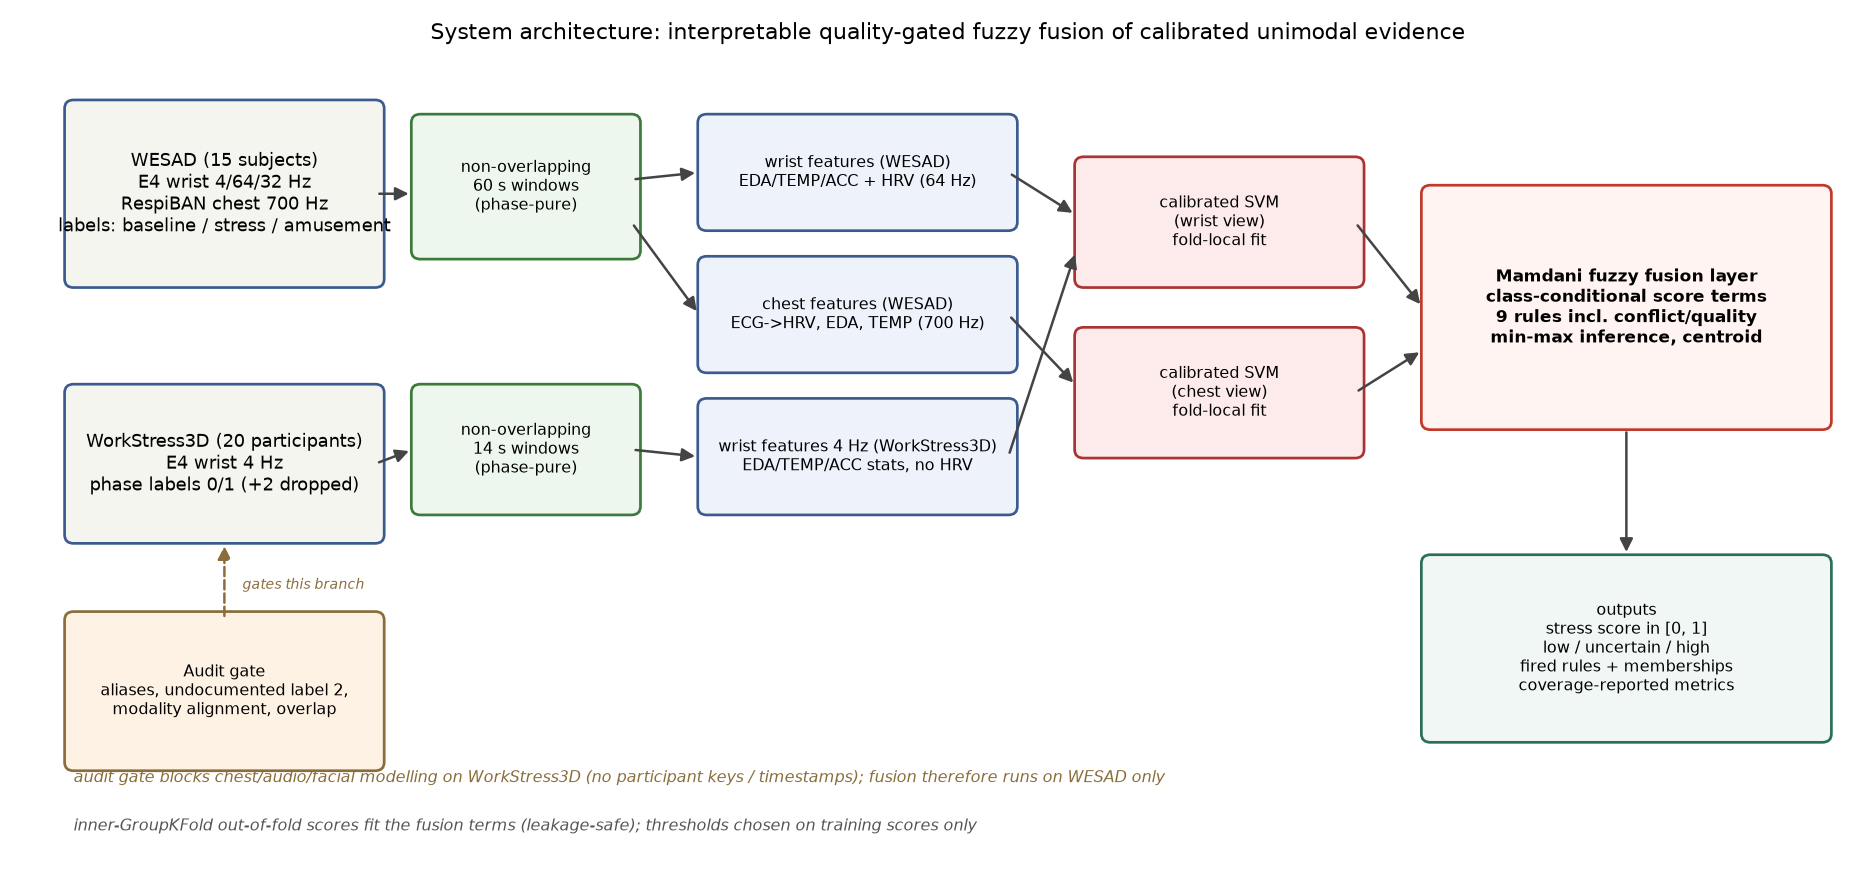
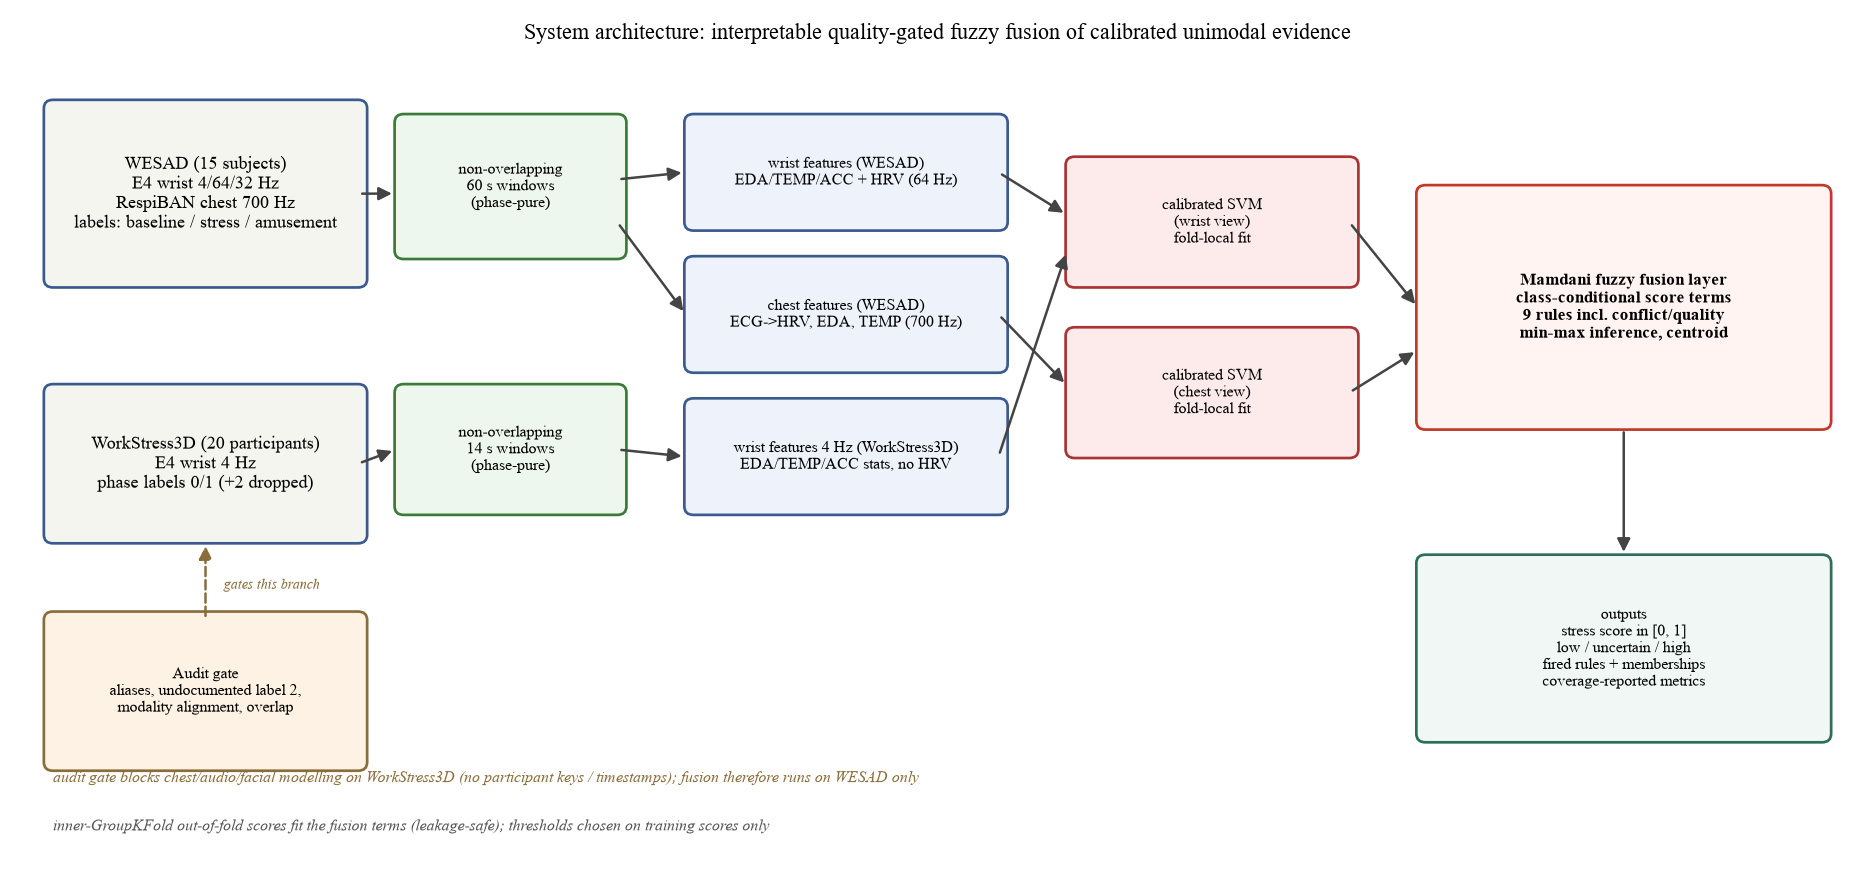
Architecture figure: set all text to Times New Roman

diff --git a/paper/make_figures.py b/paper/make_figures.py
@@ -59,95 +59,98 @@ def short(name: str) -> str:
 
 
 def fig_architecture():
-    fig, ax = plt.subplots(figsize=(12.5, 5.8))
-    ax.set_xlim(0, 120)
-    ax.set_ylim(0, 56)
-    ax.axis("off")
+    with matplotlib.rc_context({"font.family": "serif",
+                        "font.serif": ["Times New Roman"],
+                        "mathtext.fontset": "stix"}):
+        fig, ax = plt.subplots(figsize=(12.5, 5.8))
+        ax.set_xlim(0, 120)
+        ax.set_ylim(0, 56)
+        ax.axis("off")
 
-    def box(x, y, w, h, text, fc="#eef3fb", ec="#3b5b8f", fs=8.5, bold=False,
-            ls="-"):
-        ax.add_patch(FancyBboxPatch((x, y), w, h,
-                                    boxstyle="round,pad=0.6",
-                                    fc=fc, ec=ec, lw=1.3, linestyle=ls))
-        ax.text(x + w / 2, y + h / 2, text, ha="center", va="center",
-                fontsize=fs, fontweight="bold" if bold else "normal")
+        def box(x, y, w, h, text, fc="#eef3fb", ec="#3b5b8f", fs=8.5, bold=False,
+                ls="-"):
+            ax.add_patch(FancyBboxPatch((x, y), w, h,
+                                        boxstyle="round,pad=0.6",
+                                        fc=fc, ec=ec, lw=1.3, linestyle=ls))
+            ax.text(x + w / 2, y + h / 2, text, ha="center", va="center",
+                    fontsize=fs, fontweight="bold" if bold else "normal")
 
-    def arrow(x1, y1, x2, y2, style="-|>", ls="-", color="#444444"):
-        ax.add_patch(FancyArrowPatch((x1, y1), (x2, y2),
-                                     arrowstyle=style, mutation_scale=13,
-                                     lw=1.2, color=color, linestyle=ls))
+        def arrow(x1, y1, x2, y2, style="-|>", ls="-", color="#444444"):
+            ax.add_patch(FancyArrowPatch((x1, y1), (x2, y2),
+                                         arrowstyle=style, mutation_scale=13,
+                                         lw=1.2, color=color, linestyle=ls))
 
-    NL = "\n"
-    # ---- column 1: data sources --------------------------------------
-    box(2, 40, 20, 12, NL.join(["WESAD (15 subjects)", "E4 wrist 4/64/32 Hz",
-        "RespiBAN chest 700 Hz", "labels: baseline / stress / amusement"]),
-        fc="#f5f5f0")
-    box(2, 22, 20, 10, NL.join(["WorkStress3D (20 participants)",
-        "E4 wrist 4 Hz", "phase labels 0/1 (+2 dropped)"]), fc="#f5f5f0")
-    box(2, 6, 20, 10, NL.join(["Audit gate", "aliases, undocumented label 2,",
-        "modality alignment, overlap"]), fc="#fdf2e3", ec="#8a6d3b", fs=7.5)
+        NL = "\n"
+        # ---- column 1: data sources --------------------------------------
+        box(2, 40, 20, 12, NL.join(["WESAD (15 subjects)", "E4 wrist 4/64/32 Hz",
+            "RespiBAN chest 700 Hz", "labels: baseline / stress / amusement"]),
+            fc="#f5f5f0")
+        box(2, 22, 20, 10, NL.join(["WorkStress3D (20 participants)",
+            "E4 wrist 4 Hz", "phase labels 0/1 (+2 dropped)"]), fc="#f5f5f0")
+        box(2, 6, 20, 10, NL.join(["Audit gate", "aliases, undocumented label 2,",
+            "modality alignment, overlap"]), fc="#fdf2e3", ec="#8a6d3b", fs=7.5)
 
-    # ---- column 2: windowing ------------------------------------------
-    box(25, 42, 14, 9, NL.join(["non-overlapping", "60 s windows",
-        "(phase-pure)"]), fc="#eef7ee", ec="#3b7a3b", fs=7.5)
-    box(25, 24, 14, 8, NL.join(["non-overlapping", "14 s windows",
-        "(phase-pure)"]), fc="#eef7ee", ec="#3b7a3b", fs=7.5)
+        # ---- column 2: windowing ------------------------------------------
+        box(25, 42, 14, 9, NL.join(["non-overlapping", "60 s windows",
+            "(phase-pure)"]), fc="#eef7ee", ec="#3b7a3b", fs=7.5)
+        box(25, 24, 14, 8, NL.join(["non-overlapping", "14 s windows",
+            "(phase-pure)"]), fc="#eef7ee", ec="#3b7a3b", fs=7.5)
 
-    # ---- column 3: feature sets ---------------------------------------
-    box(44, 44, 20, 7, NL.join(["wrist features (WESAD)",
-        "EDA/TEMP/ACC + HRV (64 Hz)"]), fs=7.5)
-    box(44, 34, 20, 7, NL.join(["chest features (WESAD)",
-        "ECG->HRV, EDA, TEMP (700 Hz)"]), fs=7.5)
-    box(44, 24, 20, 7, NL.join(["wrist features 4 Hz (WorkStress3D)",
-        "EDA/TEMP/ACC stats, no HRV"]), fs=7.5)
+        # ---- column 3: feature sets ---------------------------------------
+        box(44, 44, 20, 7, NL.join(["wrist features (WESAD)",
+            "EDA/TEMP/ACC + HRV (64 Hz)"]), fs=7.5)
+        box(44, 34, 20, 7, NL.join(["chest features (WESAD)",
+            "ECG->HRV, EDA, TEMP (700 Hz)"]), fs=7.5)
+        box(44, 24, 20, 7, NL.join(["wrist features 4 Hz (WorkStress3D)",
+            "EDA/TEMP/ACC stats, no HRV"]), fs=7.5)
 
-    # ---- column 4: calibrated unimodal models -------------------------
-    box(69, 40, 18, 8, NL.join(["calibrated SVM", "(wrist view)",
-        "fold-local fit"]), fc="#fdeaea", ec="#a33", fs=7.5)
-    box(69, 28, 18, 8, NL.join(["calibrated SVM", "(chest view)",
-        "fold-local fit"]), fc="#fdeaea", ec="#a33", fs=7.5)
+        # ---- column 4: calibrated unimodal models -------------------------
+        box(69, 40, 18, 8, NL.join(["calibrated SVM", "(wrist view)",
+            "fold-local fit"]), fc="#fdeaea", ec="#a33", fs=7.5)
+        box(69, 28, 18, 8, NL.join(["calibrated SVM", "(chest view)",
+            "fold-local fit"]), fc="#fdeaea", ec="#a33", fs=7.5)
 
-    # ---- column 5: fusion + outputs ------------------------------------
-    box(92, 30, 26, 16, NL.join(["Mamdani fuzzy fusion layer",
-        "class-conditional score terms", "9 rules incl. conflict/quality",
-        "min-max inference, centroid"]),
-        fc="#fff4f2", ec="#c0392b", fs=8, bold=True)
-    box(92, 8, 26, 12, NL.join(["outputs", "stress score in [0, 1]",
-        "low / uncertain / high", "fired rules + memberships",
-        "coverage-reported metrics"]), fc="#f0f7f4", ec="#2c6e5a", fs=7.5)
+        # ---- column 5: fusion + outputs ------------------------------------
+        box(92, 30, 26, 16, NL.join(["Mamdani fuzzy fusion layer",
+            "class-conditional score terms", "9 rules incl. conflict/quality",
+            "min-max inference, centroid"]),
+            fc="#fff4f2", ec="#c0392b", fs=8, bold=True)
+        box(92, 8, 26, 12, NL.join(["outputs", "stress score in [0, 1]",
+            "low / uncertain / high", "fired rules + memberships",
+            "coverage-reported metrics"]), fc="#f0f7f4", ec="#2c6e5a", fs=7.5)
 
-    # ---- arrows (routing avoids every box) -----------------------------
-    arrow(22, 46, 24.5, 46)          # WESAD -> its windows
-    arrow(22, 27, 24.5, 28)          # WorkStress3D -> its windows
-    arrow(12, 16, 12, 21.5, ls="--", color="#8a6d3b")  # audit gates WS3D branch
-    ax.text(13.2, 18.2, "gates this branch", fontsize=6.5,
-            style="italic", color="#8a6d3b")
+        # ---- arrows (routing avoids every box) -----------------------------
+        arrow(22, 46, 24.5, 46)          # WESAD -> its windows
+        arrow(22, 27, 24.5, 28)          # WorkStress3D -> its windows
+        arrow(12, 16, 12, 21.5, ls="--", color="#8a6d3b")  # audit gates WS3D branch
+        ax.text(13.2, 18.2, "gates this branch", fontsize=6.5,
+                style="italic", color="#8a6d3b")
 
-    arrow(39, 47, 43.5, 47.5)        # WESAD windows -> wrist features
-    arrow(39, 44, 43.5, 37.5)        # WESAD windows -> chest features
-    arrow(39, 28, 43.5, 27.5)        # WS3D windows -> wrist-4Hz features
+        arrow(39, 47, 43.5, 47.5)        # WESAD windows -> wrist features
+        arrow(39, 44, 43.5, 37.5)        # WESAD windows -> chest features
+        arrow(39, 28, 43.5, 27.5)        # WS3D windows -> wrist-4Hz features
 
-    arrow(64, 47.5, 68.5, 44.5)      # wrist feat -> wrist SVM
-    arrow(64, 37.5, 68.5, 32.5)      # chest feat -> chest SVM
-    arrow(64, 27.5, 68.5, 42.0)      # WS3D wrist feat -> wrist SVM (view shared)
+        arrow(64, 47.5, 68.5, 44.5)      # wrist feat -> wrist SVM
+        arrow(64, 37.5, 68.5, 32.5)      # chest feat -> chest SVM
+        arrow(64, 27.5, 68.5, 42.0)      # WS3D wrist feat -> wrist SVM (view shared)
 
-    arrow(87, 44, 91.5, 38)          # wrist SVM -> fusion
-    arrow(87, 32, 91.5, 35)          # chest SVM -> fusion
-    arrow(105, 29.5, 105, 20.5)      # fusion -> outputs
+        arrow(87, 44, 91.5, 38)          # wrist SVM -> fusion
+        arrow(87, 32, 91.5, 35)          # chest SVM -> fusion
+        arrow(105, 29.5, 105, 20.5)      # fusion -> outputs
 
-    ax.text(2, 4.6, "audit gate blocks chest/audio/facial modelling on "
-                    "WorkStress3D (no participant keys / timestamps); fusion "
-                    "therefore runs on WESAD only",
-            fontsize=7.5, style="italic", color="#8a6d3b")
-    ax.text(2, 1.2, "inner-GroupKFold out-of-fold scores fit the fusion terms "
-                    "(leakage-safe); thresholds chosen on training scores only",
-            fontsize=7.5, style="italic", color="#555555")
+        ax.text(2, 4.6, "audit gate blocks chest/audio/facial modelling on "
+                        "WorkStress3D (no participant keys / timestamps); fusion "
+                        "therefore runs on WESAD only",
+                fontsize=7.5, style="italic", color="#8a6d3b")
+        ax.text(2, 1.2, "inner-GroupKFold out-of-fold scores fit the fusion terms "
+                        "(leakage-safe); thresholds chosen on training scores only",
+                fontsize=7.5, style="italic", color="#555555")
 
-    ax.set_title("System architecture: interpretable quality-gated fuzzy "
-                 "fusion of calibrated unimodal evidence", fontsize=10.5)
-    fig.tight_layout()
-    fig.savefig(FIG / "fig1_architecture.png", dpi=150)
-    plt.close(fig)
+        ax.set_title("System architecture: interpretable quality-gated fuzzy "
+                     "fusion of calibrated unimodal evidence", fontsize=10.5)
+        fig.tight_layout()
+        fig.savefig(FIG / "fig1_architecture.png", dpi=150)
+        plt.close(fig)
 
 
 def fig_mamdani():
